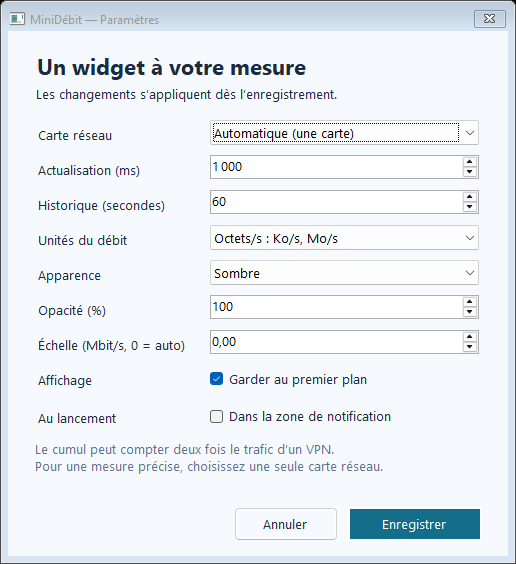
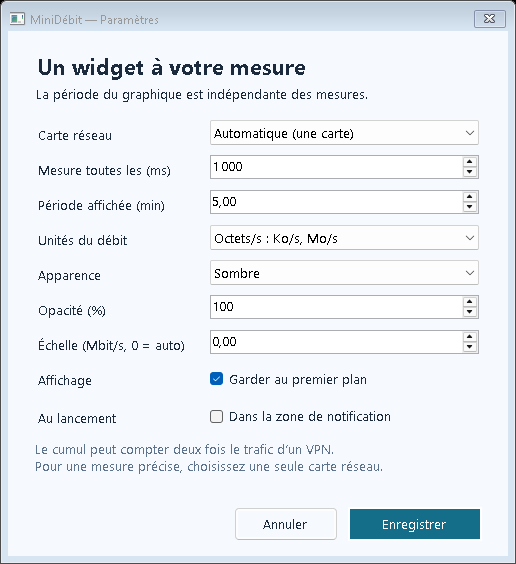
Période d’affichage indépendante des mesures
Le réglage de la période de graphique est désormais séparé du rythme des mesures. La valeur par défaut passe à 5 minutes, avec migration automatique des anciennes configurations de 60 s vers 5 min sans modifier l’intervalle de mesure. L’interface affiche les durées en secondes, minutes et heures, et les limites sont élargies jusqu’à 1 heure. La documentation et les captures ont été mises à jour pour refléter ce comportement, et les tests couvrent la compatibilité des anciennes configurations et les nouveaux affichages.

diff --git a/Bandwidth/SettingsForm.cs b/Bandwidth/SettingsForm.cs
@@ -22,7 +22,7 @@ public sealed class SettingsForm : Form
         var title = new Label { Text = "Un widget à votre mesure", Font = new Font(Font.FontFamily, 16, FontStyle.Bold),
             AutoSize = true, Location = new Point(24, 20) };
         Controls.Add(title);
-        Controls.Add(new Label { Text = "Les changements s’appliquent dès l’enregistrement.", AutoSize = true, Location = new Point(25, 54) });
+        Controls.Add(new Label { Text = "La période du graphique est indépendante des mesures.", AutoSize = true, Location = new Point(25, 54) });
         var table = new TableLayoutPanel { Location = new Point(24, 86), Size = new Size(450, 320), ColumnCount = 2, RowCount = 9 };
         table.ColumnStyles.Add(new ColumnStyle(SizeType.Absolute, 175));
         table.ColumnStyles.Add(new ColumnStyle(SizeType.Percent, 100));
@@ -47,8 +47,10 @@ public sealed class SettingsForm : Form
             adapter.Items.Add(new AdapterChoice(settings.AdapterId, "Carte sélectionnée (indisponible)"));
         adapter.SelectedIndex = adapter.Items.Cast<AdapterChoice>().ToList().FindIndex(a => a.Id == settings.AdapterId);
         Row(0, "Carte réseau", adapter);
-        var interval = Number(250, 5000, settings.IntervalMs, 250); Row(1, "Actualisation (ms)", interval);
-        var history = Number(15, 600, settings.HistorySeconds, 15); Row(2, "Historique (secondes)", history);
+        var interval = Number(250, 5000, settings.IntervalMs, 250); Row(1, "Mesure toutes les (ms)", interval);
+        var history = Number(0.25m, 60, settings.HistorySeconds / 60m, 0.25m);
+        history.DecimalPlaces = 2;
+        Row(2, "Période affichée (min)", history);
         var units = Choice("Octets/s : Ko/s, Mo/s", "Bits/s : Mbit/s, Gbit/s");
         units.SelectedIndex = settings.Bits ? 1 : 0; Row(3, "Unités du débit", units);
         var theme = Choice("Sombre", "Clair"); theme.SelectedIndex = settings.Dark ? 0 : 1; Row(4, "Apparence", theme);
@@ -72,7 +74,7 @@ public sealed class SettingsForm : Form
             MeasurementChanged = settings.AdapterId != id;
             settings.AdapterId = id;
             settings.IntervalMs = (int)interval.Value;
-            settings.HistorySeconds = (int)history.Value;
+            settings.HistorySeconds = (int)Math.Round(history.Value * 60);
             settings.Bits = units.SelectedIndex == 1;
             settings.Dark = theme.SelectedIndex == 0;
             settings.OpacityPercent = (int)opacity.Value;

diff --git a/Tests/Program.cs b/Tests/Program.cs
@@ -39,7 +39,7 @@ Check(Units.Volume(1500000) == "1,5 Mo", "Volumes en unités décimales");
 var settings = new Settings { IntervalMs = -1, HistorySeconds = 100000, OpacityPercent = 0,
     FixedScaleMbps = double.NaN, Width = 1, Height = 9999 };
 settings.Normalize();
-Check(settings.IntervalMs == 250 && settings.HistorySeconds == 600 && settings.OpacityPercent == 35,
+Check(settings.IntervalMs == 250 && settings.HistorySeconds == 3600 && settings.OpacityPercent == 35,
     "Les réglages hors limites sont bornés");
 Check(settings.FixedScaleMbps == 0 && settings.Width == 270 && settings.Height == 600,
     "Échelle et dimensions invalides corrigées");
@@ -51,6 +51,22 @@ settings.Save(path);
 var loaded = Settings.Load(path);
 Check(loaded.AdapterId == settings.AdapterId && loaded.IntervalMs == settings.IntervalMs,
     "Persistance JSON et relecture des paramètres");
+File.WriteAllText(path, "{\"HistorySeconds\":60,\"IntervalMs\":1750}");
+var migrated = Settings.Load(path);
+Check(migrated.HistorySeconds == 300 && migrated.IntervalMs == 1750,
+    "Ancienne période par défaut portée à cinq minutes sans changer la fréquence");
+File.WriteAllText(path, "{\"HistorySeconds\":120,\"IntervalMs\":1000}");
+Check(Settings.Load(path).HistorySeconds == 120, "Une période personnalisée existante est conservée");
+var independent = new Settings { ConfigurationVersion = 1, HistorySeconds = 60, IntervalMs = 1000 };
+independent.Save(path);
+Check(Settings.Load(path).HistorySeconds == 60, "Une minute reste sélectionnable après la mise à jour");
+independent.HistorySeconds = 3600;
+independent.Save(path);
+var longHistory = Settings.Load(path);
+Check(longHistory.HistorySeconds == 3600 && longHistory.IntervalMs == 1000,
+    "Une heure de graphique conserve les mesures toutes les 1000 ms");
+Check(Units.Duration(15) == "15 s" && Units.Duration(300) == "5 min" && Units.Duration(3600) == "1 h",
+    "Affichage lisible des périodes en secondes, minutes et heures");
 File.WriteAllText(path, "{invalide");
 Check(Settings.Load(path).IntervalMs == 1000, "Un fichier JSON corrompu restaure les valeurs par défaut");
 Check(Settings.Load(Path.Combine(directory, "absent.json")).AdapterId == "auto", "Première ouverture sans configuration");

diff --git a/Bandwidth/Settings.cs b/Bandwidth/Settings.cs
@@ -4,9 +4,10 @@ namespace MiniDebit;
 
 public sealed class Settings
 {
+    public int ConfigurationVersion { get; set; }
     public string AdapterId { get; set; } = "auto";
     public int IntervalMs { get; set; } = 1000;
-    public int HistorySeconds { get; set; } = 60;
+    public int HistorySeconds { get; set; } = 300;
     public bool Bits { get; set; }
     public bool Dark { get; set; } = true;
     public bool AlwaysOnTop { get; set; } = true;
@@ -23,9 +24,13 @@ public sealed class Settings
 
     public void Normalize()
     {
+        // Upgrade the original default without changing the sampling interval
+        // or a different history duration already selected by the user.
+        if (ConfigurationVersion < 1 && HistorySeconds == 60) HistorySeconds = 300;
+        ConfigurationVersion = 1;
         AdapterId = string.IsNullOrWhiteSpace(AdapterId) ? "auto" : AdapterId;
         IntervalMs = Math.Clamp(IntervalMs, 250, 5000);
-        HistorySeconds = Math.Clamp(HistorySeconds, 15, 600);
+        HistorySeconds = Math.Clamp(HistorySeconds, 15, 3600);
         OpacityPercent = Math.Clamp(OpacityPercent, 35, 100);
         FixedScaleMbps = double.IsFinite(FixedScaleMbps) ? Math.Clamp(FixedScaleMbps, 0, 100000) : 0;
         Width = Math.Clamp(Width, 270, 1000);
@@ -57,6 +62,9 @@ public sealed class Settings
 
 public static class Units
 {
+    public static string Duration(int seconds) => seconds < 60 ? $"{seconds} s"
+        : seconds < 3600 ? $"{seconds / 60.0:0.##} min" : $"{seconds / 3600.0:0.##} h";
+
     public static string Rate(double bytesPerSecond, bool bits)
     {
         double value = Math.Max(0, bytesPerSecond) * (bits ? 8 : 1);

diff --git a/Bandwidth/Widget.cs b/Bandwidth/Widget.cs
@@ -125,7 +125,7 @@ public sealed class Widget : Form
         {
             var text = $"MiniDébit · ↓ {Units.Rate(current.Down, settings.Bits)} · ↑ {Units.Rate(current.Up, settings.Bits)}";
             tray.Text = text.Length > 63 ? text[..63] : text;
-            tooltip.SetToolTip(this, $"{monitor.Status}\nSession : ↓ {Units.Volume(monitor.TotalDown)}   ↑ {Units.Volume(monitor.TotalUp)}\nÉchelle : {Units.Rate(scale, settings.Bits)} • Historique : {settings.HistorySeconds} s\nClic droit ou double-clic : paramètres");
+            tooltip.SetToolTip(this, $"{monitor.Status}\nSession : ↓ {Units.Volume(monitor.TotalDown)}   ↑ {Units.Volume(monitor.TotalUp)}\nÉchelle : {Units.Rate(scale, settings.Bits)} • Période : {Units.Duration(settings.HistorySeconds)}\nClic droit ou double-clic : paramètres");
         }
         if (Visible) Invalidate();
     }
@@ -180,7 +180,7 @@ public sealed class Widget : Form
         if (HeaderVisible)
         {
             DrawText(g, Units.Rate(scale, settings.Bits), smallFont, Muted, new RectangleF(13, chartTop - 16, 160, 14));
-            DrawText(g, $"{settings.HistorySeconds} s", smallFont, Muted, new RectangleF(w - 64, chartTop - 16, 51, 14), StringAlignment.Far);
+            DrawText(g, Units.Duration(settings.HistorySeconds), smallFont, Muted, new RectangleF(w - 84, chartTop - 16, 71, 14), StringAlignment.Far);
         }
         using (var gridPen = new Pen(Grid, .6f) { DashStyle = DashStyle.Dot })
         {

diff --git a/README.md b/README.md
@@ -37,7 +37,7 @@ La position, les dimensions et les paramètres sont mémorisés dans `%LOCALAPPD
 |---|---|
 | Carte réseau | Automatique, carte précise ou cumul des cartes actives |
 | Actualisation | 250 à 5 000 ms ; 1 000 ms par défaut |
-| Historique | 15 à 600 secondes ; 60 secondes par défaut |
+| Période affichée | 0,25 à 60 minutes (15 secondes à 1 heure) ; 5 minutes par défaut |
 | Unités | Octets/s (Ko/s, Mo/s) ou bits/s (Mbit/s, Gbit/s) |
 | Apparence | Sombre ou claire |
 | Opacité | 35 à 100 % |
@@ -50,6 +50,8 @@ Le mode automatique favorise une carte Ethernet/Wi-Fi active avec une passerelle
 Les unités sont décimales : **1 Ko = 1 000 octets ; 1 Mo/s = 8 Mbit/s**. Un plafond fixe peut couper visuellement les pics du graphique ; les valeurs numériques continuent d’afficher le débit mesuré.
 
 MiniDébit observe le trafic total de la carte, y compris les échanges locaux. Il ne mesure pas la vitesse maximale de la connexion Internet et ne sépare pas le trafic par application. Il ne lance aucun téléchargement de test. Le changement de carte remet les volumes de session et le graphique à zéro.
+
+La **période affichée** règle la vitesse du défilement, indépendamment de l’**actualisation des mesures**. Avec 5 minutes, le graphique défile cinq fois plus lentement qu’avec une minute, tout en continuant de mesurer et d’afficher les débits toutes les 1 000 ms par défaut. Le réglage se trouve dans **Paramètres → Période affichée (min)**. Une période plus longue se remplit progressivement avec les nouvelles mesures ; le programme ne peut pas reconstituer des données déjà supprimées. Lors de la mise à jour, l’ancienne valeur de 60 secondes devient 5 minutes ; une autre période personnalisée et le délai de mesure sont conservés.
 
 L’historique reste en mémoire et sa taille est bornée. Le CSV contient uniquement la période encore affichée, avec horodatage et débits en octets/s. Il ne contient pas le contenu des paquets.
 
